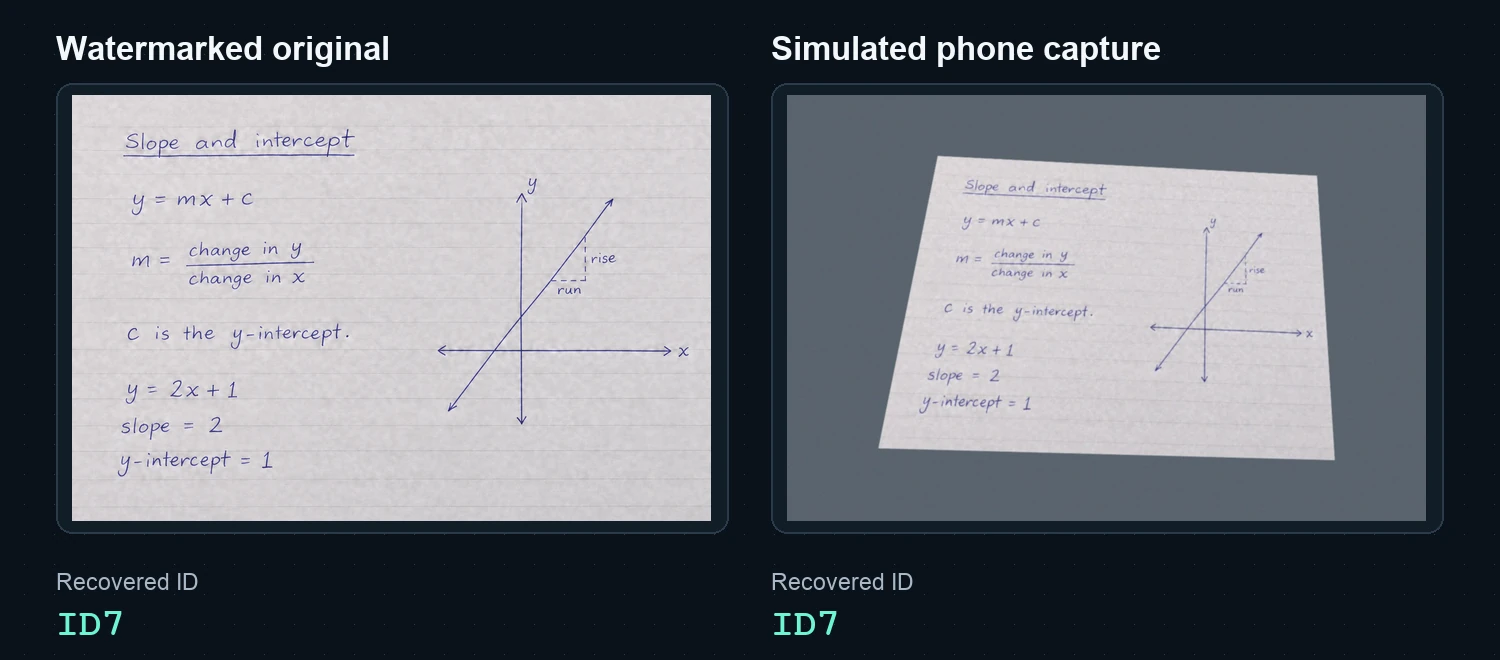
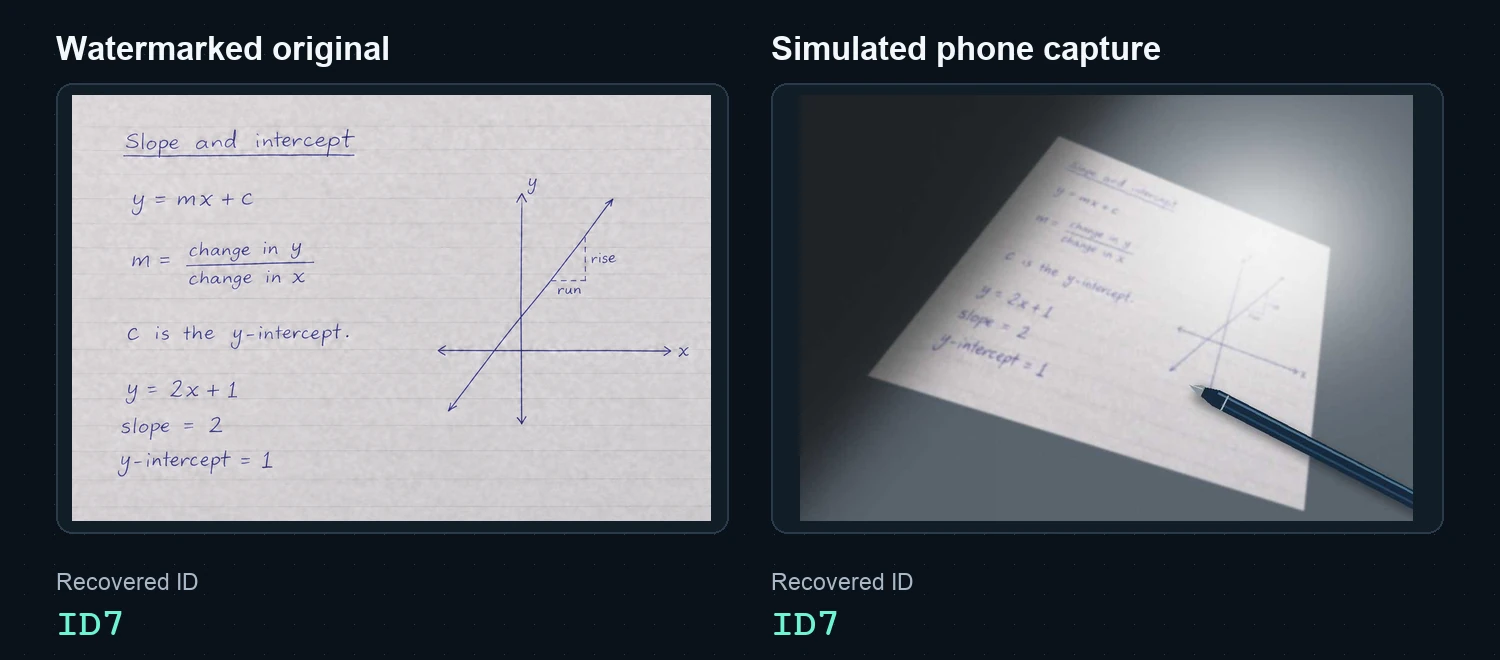
Show a more demanding phone capture demo

Changed region(s): [[0.5213, 0.1212, 0.9507, 0.7879]]

diff --git a/README.md b/README.md
@@ -37,9 +37,9 @@ b'buyer-002'
 
 ## Image demo
 
-`image_robust` embeds an invisible watermark with `markers=False`. It recovered `ID7` from both the watermarked image and a simulated phone capture. The panels show previews of the tested images.
+`image_robust` recovered `ID7` from both images with `markers=False`. The simulated capture combines a steep perspective shift, 14° rotation, blur, glare, shadow, partial pen occlusion, and JPEG compression at quality 51. The panels show previews of the tested images.
 
-![Handwritten notes on slope and intercept on lined paper, shown as the original watermarked image and a simulated phone capture. Both tests recovered ID7.](docs/assets/tracemark-robust-demo.webp)
+![Handwritten math notes beside a simulated angled phone capture with glare, shadow, and a pen partly covering the page. Both tests recovered ID7.](docs/assets/tracemark-robust-demo.webp)
 
 ## CS1302A project details
 
